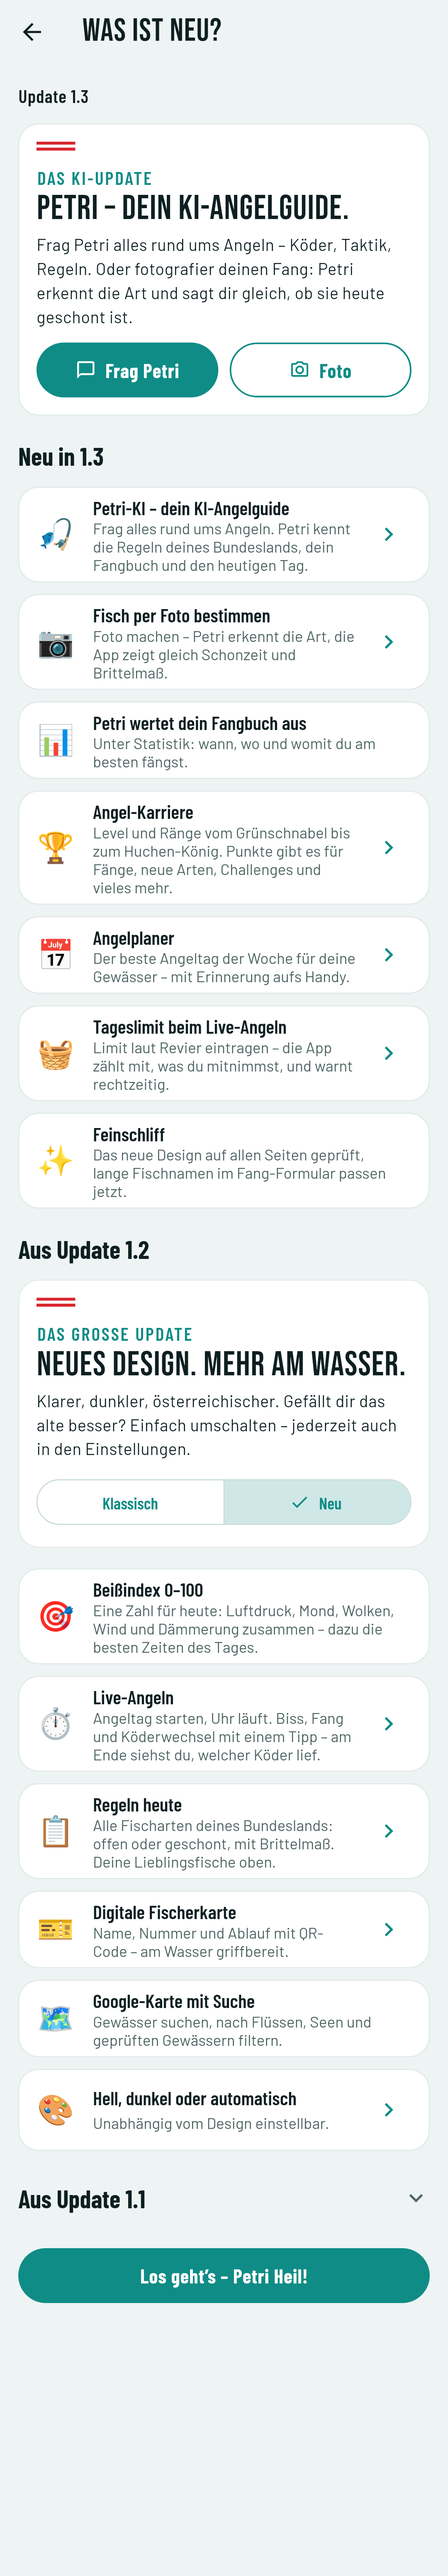
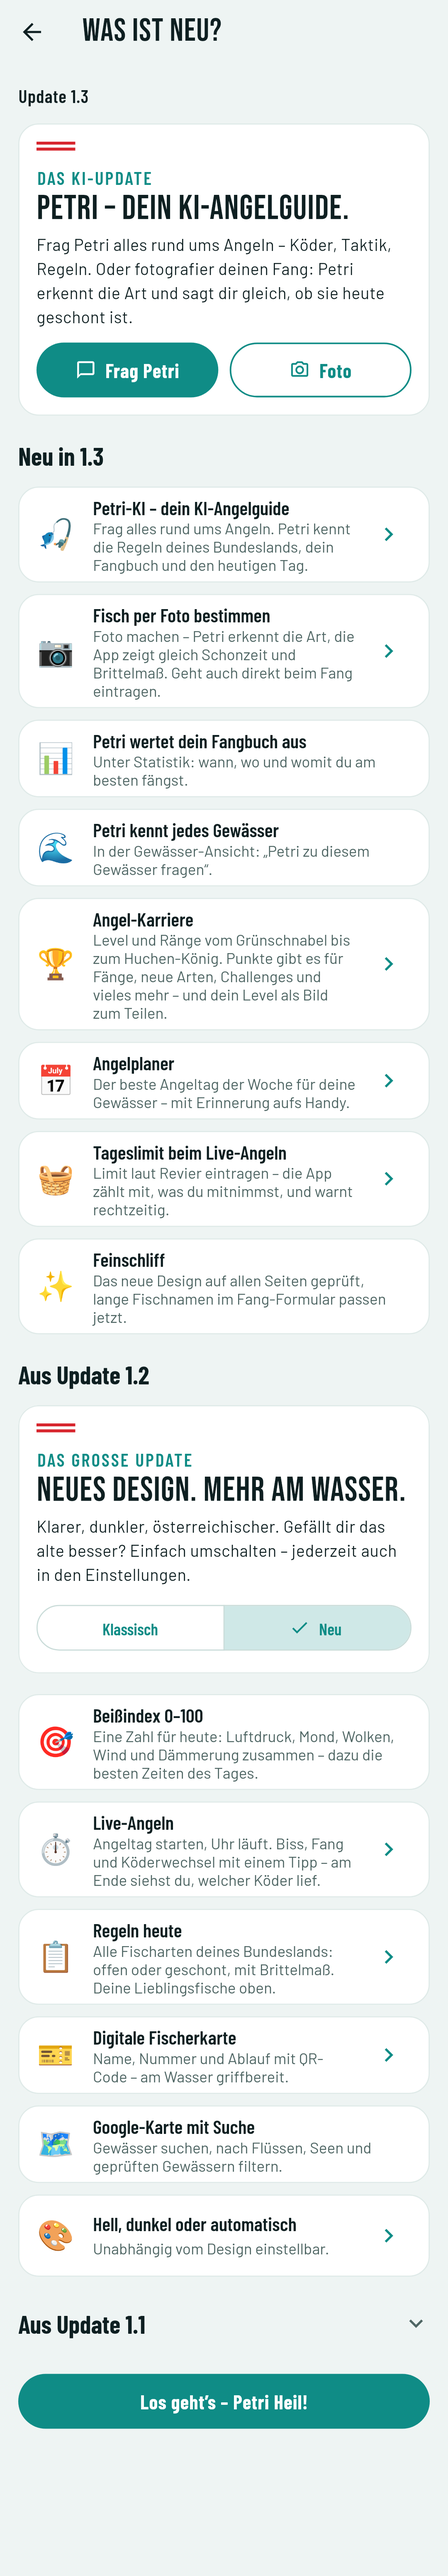
1.3: KI-Artenerkennung im Fang-Formular, Petri zu jedem Gewässer, Karriere als Bild teilen [skip ci]
Claude-Session: https://claude.ai/code/session_01JSqKKxvkfQShscKWMRN2jr

diff --git a/apps/austro_angler/lib/screens/karriere_screen.dart b/apps/austro_angler/lib/screens/karriere_screen.dart
@@ -1,6 +1,11 @@
+import 'dart:io';
 import 'dart:math';
+import 'dart:ui' as ui;
 
 import 'package:flutter/material.dart';
+import 'package:flutter/rendering.dart';
+import 'package:path_provider/path_provider.dart';
+import 'package:share_plus/share_plus.dart';
 
 import '../design.dart';
 import '../main.dart';
@@ -174,11 +179,25 @@ class _KarriereScreenState extends State<KarriereScreen>
     if (!funktionAn('karriere')) {
       return const FunktionAusSeite('Angel-Karriere');
     }
-    return Scaffold(
-      appBar: AppBar(title: const Text('Angel-Karriere')),
-      body: MeineFaenge(
-        builder: (context, faenge) {
-          final k = meineKarriere(context, faenge);
+    return MeineFaenge(
+      builder: (context, faenge) {
+        final k = meineKarriere(context, faenge);
+        return Scaffold(
+          appBar: AppBar(
+            title: const Text('Angel-Karriere'),
+            actions: [
+              IconButton(
+                tooltip: 'Karriere teilen',
+                icon: const Icon(Icons.share_outlined),
+                onPressed: () => Navigator.of(context).push(MaterialPageRoute(
+                    builder: (_) =>
+                        KarriereTeilenScreen(k, arten: {
+                          for (final f in faenge) f.fischId
+                        }.length, faenge: faenge.length))),
+              ),
+            ],
+          ),
+          body: Builder(builder: (context) {
           _feiernWennNeu(k);
           return Stack(
             children: [
@@ -212,7 +231,175 @@ class _KarriereScreenState extends State<KarriereScreen>
               ),
             ],
           );
-        },
+          }),
+        );
+      },
+    );
+  }
+}
+
+/// Karriere als Bild zum Teilen (WhatsApp, Instagram …).
+class KarriereTeilenScreen extends StatefulWidget {
+  const KarriereTeilenScreen(this.k,
+      {super.key, required this.arten, required this.faenge});
+
+  final Karriere k;
+  final int arten;
+  final int faenge;
+
+  @override
+  State<KarriereTeilenScreen> createState() => _KarriereTeilenScreenState();
+}
+
+class _KarriereTeilenScreenState extends State<KarriereTeilenScreen> {
+  final _schluessel = GlobalKey();
+  bool _teilt = false;
+
+  Future<void> _teilen() async {
+    setState(() => _teilt = true);
+    try {
+      final grenze = _schluessel.currentContext!.findRenderObject()!
+          as RenderRepaintBoundary;
+      final bild = await grenze.toImage(pixelRatio: 3);
+      final daten = await bild.toByteData(format: ui.ImageByteFormat.png);
+      final ordner = await getTemporaryDirectory();
+      final datei = File('${ordner.path}/austro_angler_karriere.png');
+      await datei.writeAsBytes(daten!.buffer.asUint8List());
+      final k = widget.k;
+      await SharePlus.instance.share(ShareParams(
+        files: [XFile(datei.path, mimeType: 'image/png')],
+        text: 'Ich bin Level ${k.level} – ${k.rang.symbol} ${k.rang.titel} '
+            'in Austro Angler! 🎣 Wie weit bist du?',
+      ));
+    } catch (e) {
+      if (mounted) meldung(context, 'Teilen fehlgeschlagen: $e');
+    } finally {
+      if (mounted) setState(() => _teilt = false);
+    }
+  }
+
+  @override
+  Widget build(BuildContext context) {
+    return Scaffold(
+      appBar: AppBar(title: const Text('Karriere teilen')),
+      body: ListView(
+        padding: const EdgeInsets.all(16),
+        children: [
+          Center(
+            child: RepaintBoundary(
+              key: _schluessel,
+              child: _KarriereKarte(widget.k,
+                  arten: widget.arten, faenge: widget.faenge),
+            ),
+          ),
+          const SizedBox(height: 16),
+          FilledButton.icon(
+            onPressed: _teilt ? null : _teilen,
+            icon: const Icon(Icons.share),
+            label: const Text('Bild teilen'),
+          ),
+        ],
+      ),
+    );
+  }
+}
+
+/// Das Bild selbst – immer im dunklen Austro-Angler-Look, egal welches Design.
+class _KarriereKarte extends StatelessWidget {
+  const _KarriereKarte(this.k, {required this.arten, required this.faenge});
+
+  final Karriere k;
+  final int arten;
+  final int faenge;
+
+  static const _gross = TextStyle(
+      fontFamily: 'BebasNeue',
+      fontFamilyFallback: ['NotoColorEmoji'],
+      color: Colors.white,
+      height: 1);
+  static const _klein = TextStyle(
+      fontFamily: 'Barlow',
+      fontFamilyFallback: ['NotoColorEmoji'],
+      color: Color(0xFFB8D4D2),
+      fontSize: 13);
+
+  @override
+  Widget build(BuildContext context) {
+    const akzent = Color(0xFF3FD0C9);
+    Widget zahl(String wert, String was) => Expanded(
+          child: Column(
+            children: [
+              Text(wert, style: _gross.copyWith(fontSize: 30)),
+              const SizedBox(height: 2),
+              Text(was.toUpperCase(),
+                  style: _klein.copyWith(fontSize: 11, letterSpacing: 1)),
+            ],
+          ),
+        );
+    return Container(
+      width: 320,
+      padding: const EdgeInsets.fromLTRB(22, 22, 22, 18),
+      decoration: BoxDecoration(
+        borderRadius: BorderRadius.circular(24),
+        gradient: const LinearGradient(
+          begin: Alignment.topLeft,
+          end: Alignment.bottomRight,
+          colors: [Color(0xFF0B2226), Color(0xFF14444A)],
+        ),
+      ),
+      child: Column(
+        children: [
+          const Align(alignment: Alignment.centerLeft, child: RotWeissRot()),
+          const SizedBox(height: 10),
+          Align(
+            alignment: Alignment.centerLeft,
+            child: Text('MEINE ANGEL-KARRIERE',
+                style: _klein.copyWith(
+                    color: akzent, letterSpacing: 1.6, fontSize: 12,
+                    fontWeight: FontWeight.w600)),
+          ),
+          const SizedBox(height: 14),
+          SizedBox(
+            width: 168,
+            height: 168,
+            child: CustomPaint(
+              painter: _RingMaler(
+                  wert: k.fortschritt,
+                  farbe: akzent,
+                  grund: const Color(0xFF24565B),
+                  dicke: 12),
+              child: Center(
+                child: Column(
+                  mainAxisSize: MainAxisSize.min,
+                  children: [
+                    Text('LEVEL',
+                        style: _klein.copyWith(letterSpacing: 1.6, fontSize: 12)),
+                    Text('${k.level}', style: _gross.copyWith(fontSize: 72)),
+                  ],
+                ),
+              ),
+            ),
+          ),
+          const SizedBox(height: 12),
+          Text('${k.rang.symbol} ${k.rang.titel}',
+              style: _gross.copyWith(fontSize: 34)),
+          const SizedBox(height: 4),
+          Text('${xpText(k.xp)} Punkte',
+              style: _klein.copyWith(
+                  color: akzent, fontSize: 16, fontWeight: FontWeight.w600)),
+          const SizedBox(height: 18),
+          Row(
+            children: [
+              zahl('$faenge', 'Fänge'),
+              zahl('$arten', 'Arten'),
+              zahl('${k.quellen.firstWhere((q) => q.symbol == '🏅').anzahl}',
+                  'Abzeichen'),
+            ],
+          ),
+          const SizedBox(height: 18),
+          Text('Austro Angler · Die Angel-App für Österreich',
+              style: _klein.copyWith(fontSize: 12)),
+        ],
       ),
     );
   }

diff --git a/apps/austro_angler/lib/screens/fangbuch_screen.dart b/apps/austro_angler/lib/screens/fangbuch_screen.dart
@@ -25,6 +25,7 @@ import 'statistik_screen.dart';
 import 'story_screen.dart';
 import 'widgets.dart';
 import '../services/fern_konfig.dart';
+import '../services/ki.dart';
 
 class FangbuchScreen extends StatefulWidget {
   const FangbuchScreen({super.key});
@@ -507,6 +508,36 @@ class _FangFormularState extends State<FangFormular> {
     }
   }
   bool _speichert = false;
+
+  /// Petri-KI bestimmt gerade die Art auf dem Foto.
+  bool _erkennt = false;
+
+  Future<void> _artErkennen() async {
+    final bild = _neuesFoto;
+    if (bild == null || _erkennt) return;
+    final konto = KontoScope.of(context);
+    setState(() => _erkennt = true);
+    try {
+      final e = await petriKi.fotoBestimmen(bild, konto: konto);
+      if (!mounted) return;
+      final f = e.fischId == null ? null : fischById(e.fischId!);
+      if (e.erkannt && f != null) {
+        setState(() => _fischId = f.id);
+        meldung(context,
+            'Petri erkennt: ${f.name.split(' (').first} (${e.sicherheitText})');
+      } else {
+        meldung(
+            context,
+            e.hinweis.isEmpty
+                ? 'Petri erkennt auf dem Foto keinen Fisch.'
+                : e.hinweis);
+      }
+    } on KiFehler catch (e) {
+      if (mounted) meldung(context, e.text);
+    } finally {
+      if (mounted) setState(() => _erkennt = false);
+    }
+  }
   bool _loescht = false;
   String? _neueId;
   LatLng? _ort;
@@ -785,6 +816,21 @@ class _FangFormularState extends State<FangFormular> {
                   ),
               ],
             ),
+            if (_neuesFoto != null && funktionAn('ki'))
+              Align(
+                alignment: Alignment.centerLeft,
+                child: FilledButton.tonalIcon(
+                  onPressed: _erkennt ? null : _artErkennen,
+                  icon: _erkennt
+                      ? const SizedBox.square(
+                          dimension: 16,
+                          child: CircularProgressIndicator(strokeWidth: 2))
+                      : const Icon(Icons.auto_awesome_outlined),
+                  label: Text(_erkennt
+                      ? 'Petri schaut genau hin …'
+                      : 'Fischart per KI erkennen'),
+                ),
+              ),
             if (videoMoeglich) ...[
               if (_neuesVideo != null)
                 ClipRRect(
@@ -834,6 +880,8 @@ class _FangFormularState extends State<FangFormular> {
             ],
           ],
           DropdownButtonFormField<String>(
+            // Neu aufbauen, wenn die Art von außen (KI) gesetzt wird.
+            key: ValueKey(_fischId),
             initialValue: _fischId,
             // Lange Artnamen kürzen statt über den Rand zu ragen.
             isExpanded: true,

diff --git a/apps/austro_angler/lib/screens/gewaesser_screen.dart b/apps/austro_angler/lib/screens/gewaesser_screen.dart
@@ -17,6 +17,7 @@ import 'glossar_screen.dart';
 import 'heimat_screen.dart';
 import 'konto_screen.dart';
 import 'melden.dart';
+import 'petri_screen.dart';
 import 'widgets.dart';
 import '../services/fern_konfig.dart';
 import 'karte_screen.dart';
@@ -550,6 +551,25 @@ class GewaesserDetail extends StatelessWidget {
             const SizedBox(height: 12),
             GepruefteInfosKarte(g),
             InfoKnoepfe(g),
+          ],
+          if (funktionAn('ki')) ...[
+            const SizedBox(height: 16),
+            OutlinedButton.icon(
+              onPressed: () {
+                final arten = [
+                  for (final id in g.fischarten.take(12))
+                    fischById(id)?.name.split(' (').first ?? id,
+                ];
+                Navigator.of(context).push(MaterialPageRoute(
+                    builder: (_) => PetriScreen(
+                        frage: 'Ich will heute am Gewässer „${g.name}“ angeln '
+                            '(${g.typ.name}, ${g.ort}, ${g.land.name}'
+                            '${arten.isEmpty ? '' : '; Fischarten laut App: ${arten.join(', ')}'}). '
+                            'Worauf soll ich gehen, und wie gehe ich es an?')));
+              },
+              icon: const Icon(Icons.auto_awesome_outlined),
+              label: const Text('Petri zu diesem Gewässer fragen'),
+            ),
           ],
           const SizedBox(height: 16),
           FilledButton.icon(

diff --git a/apps/austro_angler/lib/screens/neu_screen.dart b/apps/austro_angler/lib/screens/neu_screen.dart
@@ -58,14 +58,17 @@ class NeuScreen extends StatelessWidget {
                 () => _oeffnen(context, const PetriScreen())),
             _Punkt('📷', 'Fisch per Foto bestimmen',
                 'Foto machen – Petri erkennt die Art, die App zeigt gleich '
-                'Schonzeit und Brittelmaß.',
+                'Schonzeit und Brittelmaß. Geht auch direkt beim Fang eintragen.',
                 () => _oeffnen(context, const PetriFotoScreen())),
             _Punkt('📊', 'Petri wertet dein Fangbuch aus',
                 'Unter Statistik: wann, wo und womit du am besten fängst.'),
+            _Punkt('🌊', 'Petri kennt jedes Gewässer',
+                'In der Gewässer-Ansicht: „Petri zu diesem Gewässer fragen“.'),
           ],
           _Punkt('🏆', 'Angel-Karriere',
               'Level und Ränge vom Grünschnabel bis zum Huchen-König. Punkte '
-              'gibt es für Fänge, neue Arten, Challenges und vieles mehr.',
+              'gibt es für Fänge, neue Arten, Challenges und vieles mehr – '
+              'und dein Level als Bild zum Teilen.',
               () => _oeffnen(context, const KarriereScreen())),
           _Punkt('📅', 'Angelplaner',
               'Der beste Angeltag der Woche für deine Gewässer – mit '

diff --git a/apps/austro_angler/screenshots/store_test.dart b/apps/austro_angler/screenshots/store_test.dart
@@ -446,6 +446,22 @@ void main() {
     liveAngeln.tage = 0;
   });
 
+  testWidgets('23 Karriere teilen', (tester) async {
+    liveAngeln.tage = 4;
+    await _starten(tester, extra: {
+      ...neuDunkel,
+      'besteQuizPunkte': 9,
+      'pruefungBestanden': true,
+      'live_tage': 4,
+      'karriereGesehen': 9,
+    });
+    await _oeffnen(tester, const KarriereScreen());
+    await tester.tap(find.byTooltip('Karriere teilen'));
+    await _warten(tester);
+    await _foto(tester, '23_karriere_teilen');
+    liveAngeln.tage = 0;
+  });
+
   testWidgets('22 Angelplaner', (tester) async {
     // Beispielwetter: jeder Tag anders, je Ort leicht verschieden.
     const trend = [0.0, -0.2, 0.3, -0.5, 0.1, -0.3, 0.25, 0.0];
